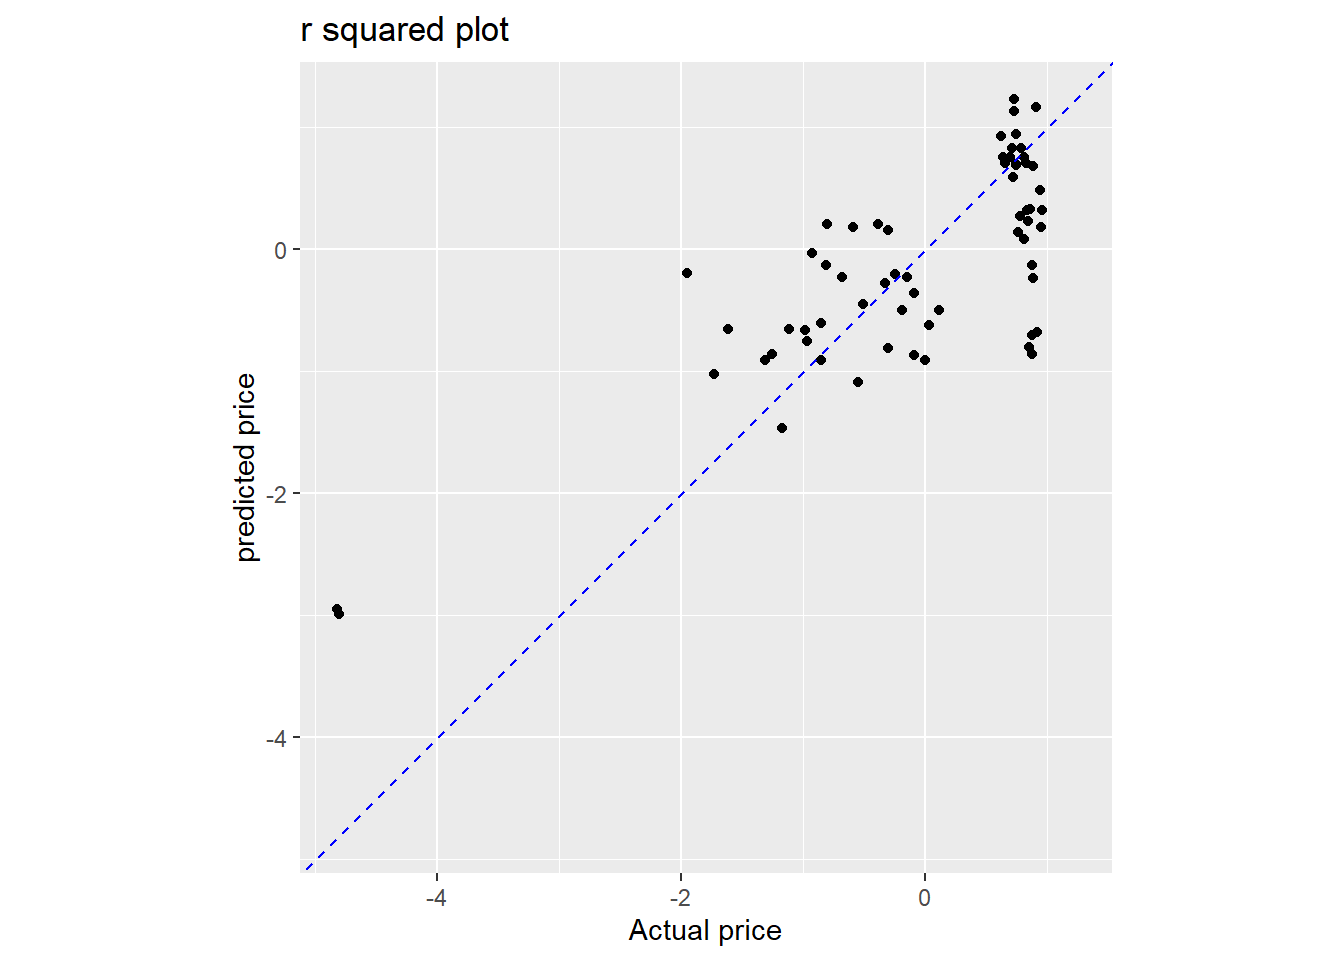
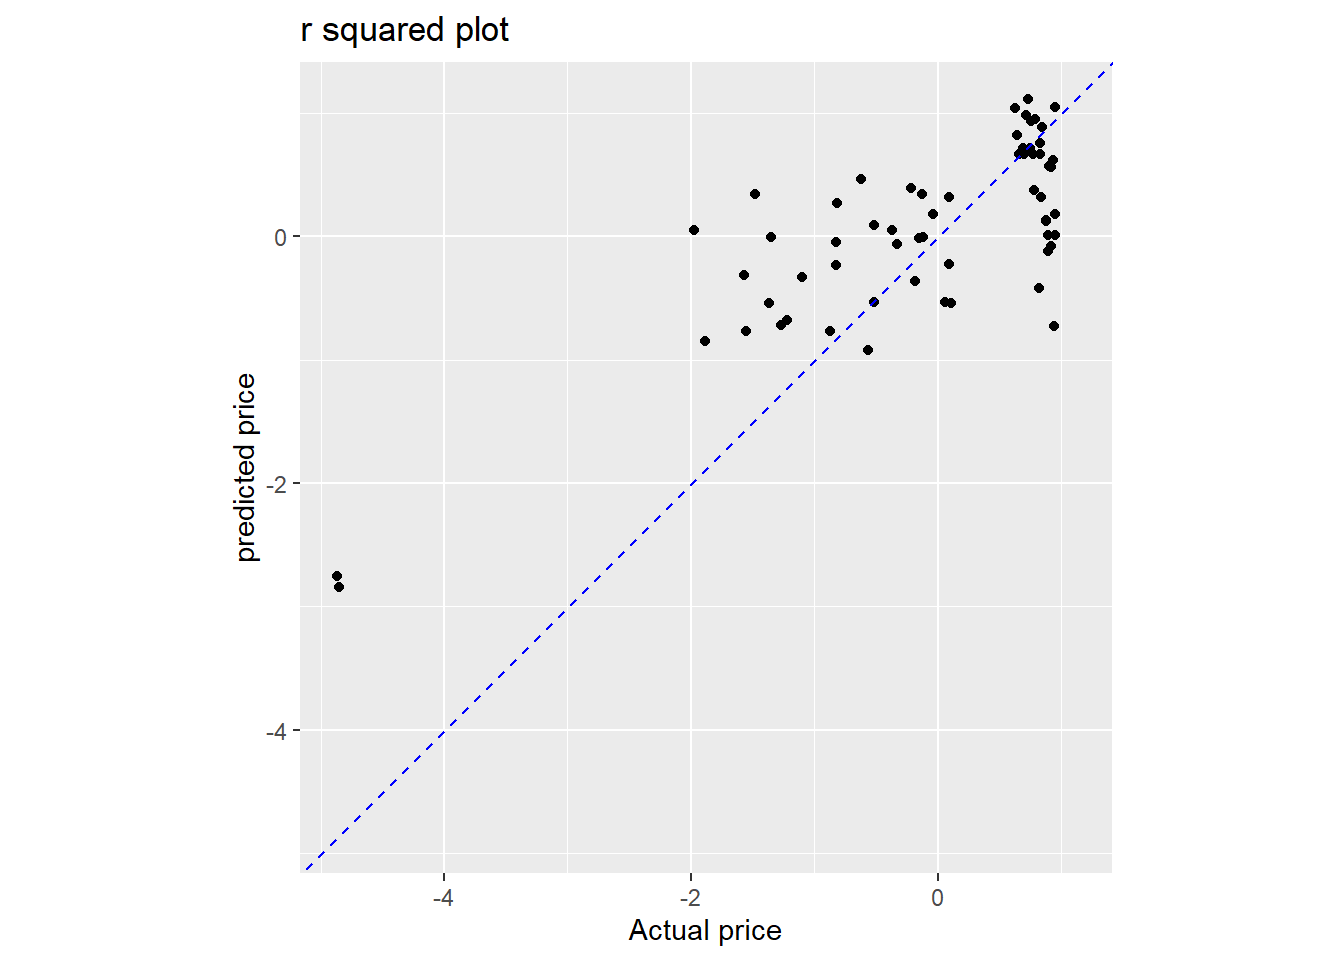
added

diff --git a/content/post/2021-10-31-diamonds/index.html b/content/post/2021-10-31-diamonds/index.html
@@ -533,13 +533,11 @@ freq(Certification)</code></pre>
 ##         IGI      1      0.41         100.00      0.41         100.00
 ##        &lt;NA&gt;      0                               0.00         100.00
 ##       Total    244    100.00         100.00    100.00         100.00</code></pre>
-<div id="other-then-egl-and-gia-certification-all-frequency-are-very-less-in-percentage.-only-ags-egl-and-gia-has-the-price-range-higher-than-3000.-in-order-to-have-a-fair-distribution-among-certifications-we-can-merge-ags-with-gia-and-all-other-certifications-can-be-categorized-as-othercertifications" class="section level2">
-<h2>Other then EGL and GIA certification, all frequency are very less in percentage. Only AGS, EGL and GIA has the price range higher than 3000. In order to have a fair distribution among certifications, we can merge AGS with GIA and all other certifications can be categorized as othercertifications</h2>
+<p>Other then EGL and GIA certification, all frequency are very less in percentage. Only AGS, EGL and GIA has the price range higher than 3000. In order to have a fair distribution among certifications, we can merge AGS with GIA and all other certifications can be categorized as othercertifications</p>
 <pre class="r"><code>MBA6636_SM21_Professor_Proposes_Data$Certification&lt;-as.character(MBA6636_SM21_Professor_Proposes_Data$Certification)</code></pre>
 <pre class="r"><code>MBA6636_SM21_Professor_Proposes_Data$Certification[MBA6636_SM21_Professor_Proposes_Data$Certification %in% c(&quot;EGL&quot;, &quot;DOW&quot;, &quot;IGI&quot;)]&lt;- &quot;Other Certifications&quot;</code></pre>
 <pre class="r"><code>MBA6636_SM21_Professor_Proposes_Data$Certification[MBA6636_SM21_Professor_Proposes_Data$Certification == &quot;AGS&quot;]&lt;- &quot;GIA&quot;</code></pre>
 <pre class="r"><code>MBA6636_SM21_Professor_Proposes_Data$Certification&lt;-as.factor(MBA6636_SM21_Professor_Proposes_Data$Certification)</code></pre>
-</div>
 </div>
 <div id="frequency-distribution-of-certification" class="section level1">
 <h1>Frequency distribution of certification</h1>
@@ -1311,7 +1309,9 @@ diamond_test&lt;- diamond_split %&gt;%
 <pre class="r"><code>lm_model &lt;- linear_reg() %&gt;%
   set_engine(&#39;lm&#39;) %&gt;%
   set_mode(&#39;regression&#39;)</code></pre>
-<p>#Feature engineering</p>
+</div>
+<div id="feature-engineering" class="section level1">
+<h1>Feature engineering</h1>
 <pre class="r"><code>diamond_recipe &lt;- recipe(Price ~., data = diamond_training) %&gt;%
   step_corr(all_numeric(), threshold =0.8) %&gt;%
   step_normalize(all_numeric()) %&gt;%
@@ -1361,16 +1361,16 @@ diamond_training_prep</code></pre>
 <pre><code>## # A tibble: 180 x 9
 ##       Carat Price Colour_yellow Clarity_Visible.~ Cut_Very.Good Certification_O~
 ##       &lt;dbl&gt; &lt;dbl&gt;         &lt;dbl&gt;             &lt;dbl&gt;         &lt;dbl&gt;            &lt;dbl&gt;
-##  1 -0.00514 -2.03             1                 0             0                1
-##  2 -0.00514 -1.89             1                 1             0                0
-##  3  0.0609  -1.86             0                 1             0                0
-##  4  0.259   -1.78             1                 1             0                1
-##  5  1.51    -1.72             0                 1             0                0
-##  6  1.18    -1.62             0                 1             0                1
-##  7 -0.00514 -1.59             0                 1             0                0
-##  8 -0.00514 -1.58             1                 1             1                0
-##  9  0.325   -1.55             0                 1             1                0
-## 10 -0.00514 -1.53             0                 1             0                1
+##  1 -0.00261 -2.05             1                 0             0                1
+##  2 -0.00261 -1.91             1                 1             0                0
+##  3  0.266   -1.80             1                 1             0                1
+##  4  0.333   -1.75             1                 1             0                1
+##  5  1.54    -1.75             0                 1             0                0
+##  6  1.21    -1.64             0                 1             0                1
+##  7  0.132   -1.63             0                 1             1                0
+##  8 -0.00261 -1.61             0                 1             0                0
+##  9 -0.00261 -1.60             1                 1             1                0
+## 10  0.132   -1.48             1                 1             0                1
 ## # ... with 170 more rows, and 3 more variables: Polish_Very.Good &lt;dbl&gt;,
 ## #   Symmetry_Very.Good &lt;dbl&gt;,
 ## #   Wholesaler_Low.and.Medium.priced.diamond.wholesaler &lt;dbl&gt;</code></pre>
@@ -1384,16 +1384,16 @@ diamond_test_prep</code></pre>
 <pre><code>## # A tibble: 64 x 9
 ##     Carat Price Colour_yellow Clarity_Visible.t~ Cut_Very.Good Certification_Ot~
 ##     &lt;dbl&gt; &lt;dbl&gt;         &lt;dbl&gt;              &lt;dbl&gt;         &lt;dbl&gt;             &lt;dbl&gt;
-##  1 -0.534 0.627             0                  0             0                 0
-##  2 -1.26  0.637             0                  0             1                 0
-##  3 -1.33  0.655             0                  0             1                 0
-##  4 -1.26  0.695             0                  0             1                 0
-##  5 -0.600 0.716             0                  0             0                 0
-##  6 -1.13  0.723             0                  0             1                 0
-##  7 -0.666 0.727             0                  0             1                 0
-##  8 -0.600 0.730             0                  0             1                 0
-##  9 -0.996 0.746             0                  0             1                 0
-## 10 -0.996 0.746             0                  0             1                 0
+##  1 -0.540 0.629             0                  0             1                 0
+##  2 -0.876 0.645             0                  0             1                 0
+##  3 -1.35  0.657             0                  0             1                 0
+##  4 -1.35  0.657             0                  0             1                 0
+##  5 -1.28  0.692             0                  0             1                 0
+##  6 -1.28  0.697             0                  0             1                 0
+##  7 -1.35  0.702             0                  0             1                 0
+##  8 -1.35  0.702             0                  0             1                 0
+##  9 -0.607 0.718             0                  0             0                 0
+## 10 -0.674 0.730             0                  0             1                 0
 ## # ... with 54 more rows, and 3 more variables: Polish_Very.Good &lt;dbl&gt;,
 ## #   Symmetry_Very.Good &lt;dbl&gt;,
 ## #   Wholesaler_Low.and.Medium.priced.diamond.wholesaler &lt;dbl&gt;</code></pre>
@@ -1405,30 +1405,30 @@ diamond_test_prep</code></pre>
 lm_fit</code></pre>
 <pre><code>## parsnip model object
 ## 
-## Fit time:  20ms 
+## Fit time:  0ms 
 ## 
 ## Call:
 ## stats::lm(formula = Price ~ ., data = data)
 ## 
 ## Coefficients:
 ##                                         (Intercept)  
-##                                             1.05530  
+##                                             1.22867  
 ##                                               Carat  
-##                                             0.72378  
+##                                             0.68618  
 ##                                       Colour_yellow  
-##                                            -0.55911  
+##                                            -0.57268  
 ##                        Clarity_Visible.to.naked.eye  
-##                                            -0.98744  
+##                                            -1.11143  
 ##                                       Cut_Very.Good  
-##                                             0.35313  
+##                                             0.17992  
 ##                  Certification_Other.Certifications  
-##                                             0.19953  
+##                                             0.13569  
 ##                                    Polish_Very.Good  
-##                                             0.20356  
+##                                             0.17010  
 ##                                  Symmetry_Very.Good  
-##                                             0.05422  
+##                                             0.01115  
 ## Wholesaler_Low.and.Medium.priced.diamond.wholesaler  
-##                                            -1.17284</code></pre>
+##                                            -1.01916</code></pre>
 </div>
 <div id="obtaining-the-estimated-parameters" class="section level1">
 <h1>Obtaining the estimated parameters</h1>
@@ -1436,15 +1436,15 @@ lm_fit</code></pre>
 <pre><code>## # A tibble: 9 x 5
 ##   term                                     estimate std.error statistic  p.value
 ##   &lt;chr&gt;                                       &lt;dbl&gt;     &lt;dbl&gt;     &lt;dbl&gt;    &lt;dbl&gt;
-## 1 (Intercept)                                1.06      0.175      6.02  1.01e- 8
-## 2 Carat                                      0.724     0.0783     9.25  9.02e-17
-## 3 Colour_yellow                             -0.559     0.149     -3.76  2.34e- 4
-## 4 Clarity_Visible.to.naked.eye              -0.987     0.169     -5.83  2.64e- 8
-## 5 Cut_Very.Good                              0.353     0.130      2.72  7.14e- 3
-## 6 Certification_Other.Certifications         0.200     0.145      1.38  1.69e- 1
-## 7 Polish_Very.Good                           0.204     0.135      1.51  1.33e- 1
-## 8 Symmetry_Very.Good                         0.0542    0.137      0.396 6.93e- 1
-## 9 Wholesaler_Low.and.Medium.priced.diamon~  -1.17      0.220     -5.34  2.97e- 7</code></pre>
+## 1 (Intercept)                                1.23      0.175     7.02   5.01e-11
+## 2 Carat                                      0.686     0.0766    8.96   5.59e-16
+## 3 Colour_yellow                             -0.573     0.143    -4.00   9.27e- 5
+## 4 Clarity_Visible.to.naked.eye              -1.11      0.169    -6.59   5.10e-10
+## 5 Cut_Very.Good                              0.180     0.126     1.43   1.55e- 1
+## 6 Certification_Other.Certifications         0.136     0.147     0.925  3.56e- 1
+## 7 Polish_Very.Good                           0.170     0.132     1.29   1.99e- 1
+## 8 Symmetry_Very.Good                         0.0111    0.137     0.0815 9.35e- 1
+## 9 Wholesaler_Low.and.Medium.priced.diamon~  -1.02      0.224    -4.56   9.73e- 6</code></pre>
 </div>
 <div id="making-predictions" class="section level1">
 <h1>Making predictions</h1>
@@ -1454,16 +1454,16 @@ diamond_predictions</code></pre>
 <pre><code>## # A tibble: 64 x 1
 ##    .pred
 ##    &lt;dbl&gt;
-##  1 0.927
-##  2 0.754
-##  3 0.706
-##  4 0.754
-##  5 0.825
-##  6 0.592
-##  7 1.13 
-##  8 1.23 
-##  9 0.945
-## 10 0.687
+##  1 1.04 
+##  2 0.819
+##  3 0.666
+##  4 0.666
+##  5 0.712
+##  6 0.712
+##  7 0.666
+##  8 0.666
+##  9 0.982
+## 10 1.12 
 ## # ... with 54 more rows</code></pre>
 </div>
 <div id="adding-predictions-to-test-data" class="section level1">
@@ -1474,16 +1474,16 @@ diamond_test_prep_results</code></pre>
 <pre><code>## # A tibble: 64 x 10
 ##     Carat Price Colour_yellow Clarity_Visible.t~ Cut_Very.Good Certification_Ot~
 ##     &lt;dbl&gt; &lt;dbl&gt;         &lt;dbl&gt;              &lt;dbl&gt;         &lt;dbl&gt;             &lt;dbl&gt;
-##  1 -0.534 0.627             0                  0             0                 0
-##  2 -1.26  0.637             0                  0             1                 0
-##  3 -1.33  0.655             0                  0             1                 0
-##  4 -1.26  0.695             0                  0             1                 0
-##  5 -0.600 0.716             0                  0             0                 0
-##  6 -1.13  0.723             0                  0             1                 0
-##  7 -0.666 0.727             0                  0             1                 0
-##  8 -0.600 0.730             0                  0             1                 0
-##  9 -0.996 0.746             0                  0             1                 0
-## 10 -0.996 0.746             0                  0             1                 0
+##  1 -0.540 0.629             0                  0             1                 0
+##  2 -0.876 0.645             0                  0             1                 0
+##  3 -1.35  0.657             0                  0             1                 0
+##  4 -1.35  0.657             0                  0             1                 0
+##  5 -1.28  0.692             0                  0             1                 0
+##  6 -1.28  0.697             0                  0             1                 0
+##  7 -1.35  0.702             0                  0             1                 0
+##  8 -1.35  0.702             0                  0             1                 0
+##  9 -0.607 0.718             0                  0             0                 0
+## 10 -0.674 0.730             0                  0             1                 0
 ## # ... with 54 more rows, and 4 more variables: Polish_Very.Good &lt;dbl&gt;,
 ## #   Symmetry_Very.Good &lt;dbl&gt;,
 ## #   Wholesaler_Low.and.Medium.priced.diamond.wholesaler &lt;dbl&gt;, .pred &lt;dbl&gt;</code></pre>
@@ -1498,7 +1498,7 @@ diamond_test_prep_results</code></pre>
 <pre><code>## # A tibble: 1 x 3
 ##   .metric .estimator .estimate
 ##   &lt;chr&gt;   &lt;chr&gt;          &lt;dbl&gt;
-## 1 rmse    standard       0.754</code></pre>
+## 1 rmse    standard       0.787</code></pre>
 </div>
 <div id="r-squared-metric" class="section level1">
 <h1>r squared metric</h1>
@@ -1507,7 +1507,7 @@ diamond_test_prep_results</code></pre>
 <pre><code>## # A tibble: 1 x 3
 ##   .metric .estimator .estimate
 ##   &lt;chr&gt;   &lt;chr&gt;          &lt;dbl&gt;
-## 1 rsq     standard       0.605</code></pre>
+## 1 rsq     standard       0.631</code></pre>
 </div>
 <div id="r-squared-plots" class="section level1">
 <h1>r squared plots</h1>
@@ -1524,8 +1524,8 @@ diamond_test_prep_results</code></pre>
 <pre><code>## # A tibble: 2 x 4
 ##   .metric .estimator .estimate .config             
 ##   &lt;chr&gt;   &lt;chr&gt;          &lt;dbl&gt; &lt;chr&gt;               
-## 1 rmse    standard     324.    Preprocessor1_Model1
-## 2 rsq     standard       0.605 Preprocessor1_Model1</code></pre>
+## 1 rmse    standard     335.    Preprocessor1_Model1
+## 2 rsq     standard       0.631 Preprocessor1_Model1</code></pre>
 </div>
 <div id="collecting-predictions" class="section level1">
 <h1>COllecting predictions</h1>
@@ -1534,16 +1534,16 @@ diamond_test_prep_results</code></pre>
 <pre><code>## # A tibble: 64 x 5
 ##    id               .pred  .row Price .config             
 ##    &lt;chr&gt;            &lt;dbl&gt; &lt;int&gt; &lt;dbl&gt; &lt;chr&gt;               
-##  1 train/test split 3129.     1  3000 Preprocessor1_Model1
-##  2 train/test split 3054.     4  3004 Preprocessor1_Model1
-##  3 train/test split 3034.    10  3012 Preprocessor1_Model1
-##  4 train/test split 3054.    19  3029 Preprocessor1_Model1
-##  5 train/test split 3085.    26  3038 Preprocessor1_Model1
-##  6 train/test split 2985.    28  3041 Preprocessor1_Model1
-##  7 train/test split 3216.    31  3043 Preprocessor1_Model1
-##  8 train/test split 3260.    33  3044 Preprocessor1_Model1
-##  9 train/test split 3137.    36  3051 Preprocessor1_Model1
-## 10 train/test split 3026.    37  3051 Preprocessor1_Model1
+##  1 train/test split 3174.     2  3000 Preprocessor1_Model1
+##  2 train/test split 3081.     6  3007 Preprocessor1_Model1
+##  3 train/test split 3016.     9  3012 Preprocessor1_Model1
+##  4 train/test split 3016.    10  3012 Preprocessor1_Model1
+##  5 train/test split 3036.    17  3027 Preprocessor1_Model1
+##  6 train/test split 3036.    20  3029 Preprocessor1_Model1
+##  7 train/test split 3016.    22  3031 Preprocessor1_Model1
+##  8 train/test split 3016.    23  3031 Preprocessor1_Model1
+##  9 train/test split 3151.    26  3038 Preprocessor1_Model1
+## 10 train/test split 3208.    31  3043 Preprocessor1_Model1
 ## # ... with 54 more rows</code></pre>
 </div>
 <div id="creating-workflow" class="section level1">
@@ -1587,8 +1587,8 @@ diamond_wkfl_fit</code></pre>
 <pre><code>## # A tibble: 2 x 4
 ##   .metric .estimator .estimate .config             
 ##   &lt;chr&gt;   &lt;chr&gt;          &lt;dbl&gt; &lt;chr&gt;               
-## 1 rmse    standard       0.754 Preprocessor1_Model1
-## 2 rsq     standard       0.605 Preprocessor1_Model1</code></pre>
+## 1 rmse    standard       0.787 Preprocessor1_Model1
+## 2 rsq     standard       0.631 Preprocessor1_Model1</code></pre>
 </div>
 <div id="collecting-predictions-1" class="section level1">
 <h1>Collecting predictions</h1>
@@ -1598,16 +1598,16 @@ diamond_wkfl_preds</code></pre>
 <pre><code>## # A tibble: 64 x 5
 ##    id               .pred  .row Price .config             
 ##    &lt;chr&gt;            &lt;dbl&gt; &lt;int&gt; &lt;dbl&gt; &lt;chr&gt;               
-##  1 train/test split 0.927     1 0.627 Preprocessor1_Model1
-##  2 train/test split 0.754     4 0.637 Preprocessor1_Model1
-##  3 train/test split 0.706    10 0.655 Preprocessor1_Model1
-##  4 train/test split 0.754    19 0.695 Preprocessor1_Model1
-##  5 train/test split 0.825    26 0.716 Preprocessor1_Model1
-##  6 train/test split 0.592    28 0.723 Preprocessor1_Model1
-##  7 train/test split 1.13     31 0.727 Preprocessor1_Model1
-##  8 train/test split 1.23     33 0.730 Preprocessor1_Model1
-##  9 train/test split 0.945    36 0.746 Preprocessor1_Model1
-## 10 train/test split 0.687    37 0.746 Preprocessor1_Model1
+##  1 train/test split 1.04      2 0.629 Preprocessor1_Model1
+##  2 train/test split 0.819     6 0.645 Preprocessor1_Model1
+##  3 train/test split 0.666     9 0.657 Preprocessor1_Model1
+##  4 train/test split 0.666    10 0.657 Preprocessor1_Model1
+##  5 train/test split 0.712    17 0.692 Preprocessor1_Model1
+##  6 train/test split 0.712    20 0.697 Preprocessor1_Model1
+##  7 train/test split 0.666    22 0.702 Preprocessor1_Model1
+##  8 train/test split 0.666    23 0.702 Preprocessor1_Model1
+##  9 train/test split 0.982    26 0.718 Preprocessor1_Model1
+## 10 train/test split 1.12     31 0.730 Preprocessor1_Model1
 ## # ... with 54 more rows</code></pre>
 </div>
 <div id="exploring-custome-metrics" class="section level1">
@@ -1618,9 +1618,9 @@ diamond_wkfl_preds %&gt;%
 <pre><code>## # A tibble: 3 x 3
 ##   .metric .estimator .estimate
 ##   &lt;chr&gt;   &lt;chr&gt;          &lt;dbl&gt;
-## 1 rmse    standard       0.754
-## 2 mae     standard       0.573
-## 3 rsq     standard       0.605</code></pre>
+## 1 rmse    standard       0.787
+## 2 mae     standard       0.580
+## 3 rsq     standard       0.631</code></pre>
 </div>
 <div id="creating-cross-validation-folds" class="section level1">
 <h1>Creating cross validation folds</h1>
@@ -1651,9 +1651,9 @@ diamond_rs_fit %&gt;%
 <pre><code>## # A tibble: 3 x 6
 ##   .metric .estimator  mean     n std_err .config             
 ##   &lt;chr&gt;   &lt;chr&gt;      &lt;dbl&gt; &lt;int&gt;   &lt;dbl&gt; &lt;chr&gt;               
-## 1 mae     standard   0.556    10  0.0301 Preprocessor1_Model1
-## 2 rmse    standard   0.754    10  0.0436 Preprocessor1_Model1
-## 3 rsq     standard   0.403    10  0.0611 Preprocessor1_Model1</code></pre>
+## 1 mae     standard   0.561    10  0.0414 Preprocessor1_Model1
+## 2 rmse    standard   0.752    10  0.0595 Preprocessor1_Model1
+## 3 rsq     standard   0.406    10  0.0709 Preprocessor1_Model1</code></pre>
 </div>
 <div id="detailed-cross-validation-results" class="section level1">
 <h1>Detailed cross validation results</h1>
@@ -1663,16 +1663,16 @@ diamond_rs_metrics</code></pre>
 <pre><code>## # A tibble: 30 x 5
 ##    id     .metric .estimator .estimate .config             
 ##    &lt;chr&gt;  &lt;chr&gt;   &lt;chr&gt;          &lt;dbl&gt; &lt;chr&gt;               
-##  1 Fold01 rmse    standard      0.978  Preprocessor1_Model1
-##  2 Fold01 mae     standard      0.672  Preprocessor1_Model1
-##  3 Fold01 rsq     standard      0.577  Preprocessor1_Model1
-##  4 Fold02 rmse    standard      0.573  Preprocessor1_Model1
-##  5 Fold02 mae     standard      0.447  Preprocessor1_Model1
-##  6 Fold02 rsq     standard      0.385  Preprocessor1_Model1
-##  7 Fold03 rmse    standard      0.954  Preprocessor1_Model1
-##  8 Fold03 mae     standard      0.748  Preprocessor1_Model1
-##  9 Fold03 rsq     standard      0.0863 Preprocessor1_Model1
-## 10 Fold04 rmse    standard      0.847  Preprocessor1_Model1
+##  1 Fold01 rmse    standard       0.979 Preprocessor1_Model1
+##  2 Fold01 mae     standard       0.701 Preprocessor1_Model1
+##  3 Fold01 rsq     standard       0.600 Preprocessor1_Model1
+##  4 Fold02 rmse    standard       0.628 Preprocessor1_Model1
+##  5 Fold02 mae     standard       0.462 Preprocessor1_Model1
+##  6 Fold02 rsq     standard       0.279 Preprocessor1_Model1
+##  7 Fold03 rmse    standard       0.769 Preprocessor1_Model1
+##  8 Fold03 mae     standard       0.596 Preprocessor1_Model1
+##  9 Fold03 rsq     standard       0.321 Preprocessor1_Model1
+## 10 Fold04 rmse    standard       0.979 Preprocessor1_Model1
 ## # ... with 20 more rows</code></pre>
 </div>
 <div id="summarizing-cross-validation-results" class="section level1">
@@ -1685,8 +1685,8 @@ diamond_rs_metrics</code></pre>
             max = max(.estimate),
             mean = mean(.estimate),
             sd = sd(.estimate))</code></pre>
-<pre><code>##         min    median       max      mean        sd
-## 1 0.5730208 0.7130358 0.9776844 0.7539706 0.1379481</code></pre>
+<pre><code>##         min   median       max      mean        sd
+## 1 0.4191928 0.771546 0.9793281 0.7524708 0.1881393</code></pre>
 </div>
 <div id="viewing-the-best-performing-model" class="section level1">
 <h1>Viewing the best performing model</h1>
@@ -1695,7 +1695,7 @@ diamond_rs_metrics</code></pre>
 <pre><code>## # A tibble: 1 x 6
 ##   .metric .estimator  mean     n std_err .config             
 ##   &lt;chr&gt;   &lt;chr&gt;      &lt;dbl&gt; &lt;int&gt;   &lt;dbl&gt; &lt;chr&gt;               
-## 1 rmse    standard   0.754    10  0.0436 Preprocessor1_Model1</code></pre>
+## 1 rmse    standard   0.752    10  0.0595 Preprocessor1_Model1</code></pre>
 </div>
 <div id="best-diamond-model" class="section level1">
 <h1>Best diamond model</h1>
@@ -1737,8 +1737,8 @@ diamond_final_fit %&gt;%
 <pre><code>## # A tibble: 2 x 4
 ##   .metric .estimator .estimate .config             
 ##   &lt;chr&gt;   &lt;chr&gt;          &lt;dbl&gt; &lt;chr&gt;               
-## 1 rmse    standard       0.754 Preprocessor1_Model1
-## 2 rsq     standard       0.605 Preprocessor1_Model1</code></pre>
+## 1 rmse    standard       0.787 Preprocessor1_Model1
+## 2 rsq     standard       0.631 Preprocessor1_Model1</code></pre>
 </div>
 <div id="bootstrap-method" class="section level1">
 <h1>Bootstrap method</h1>
